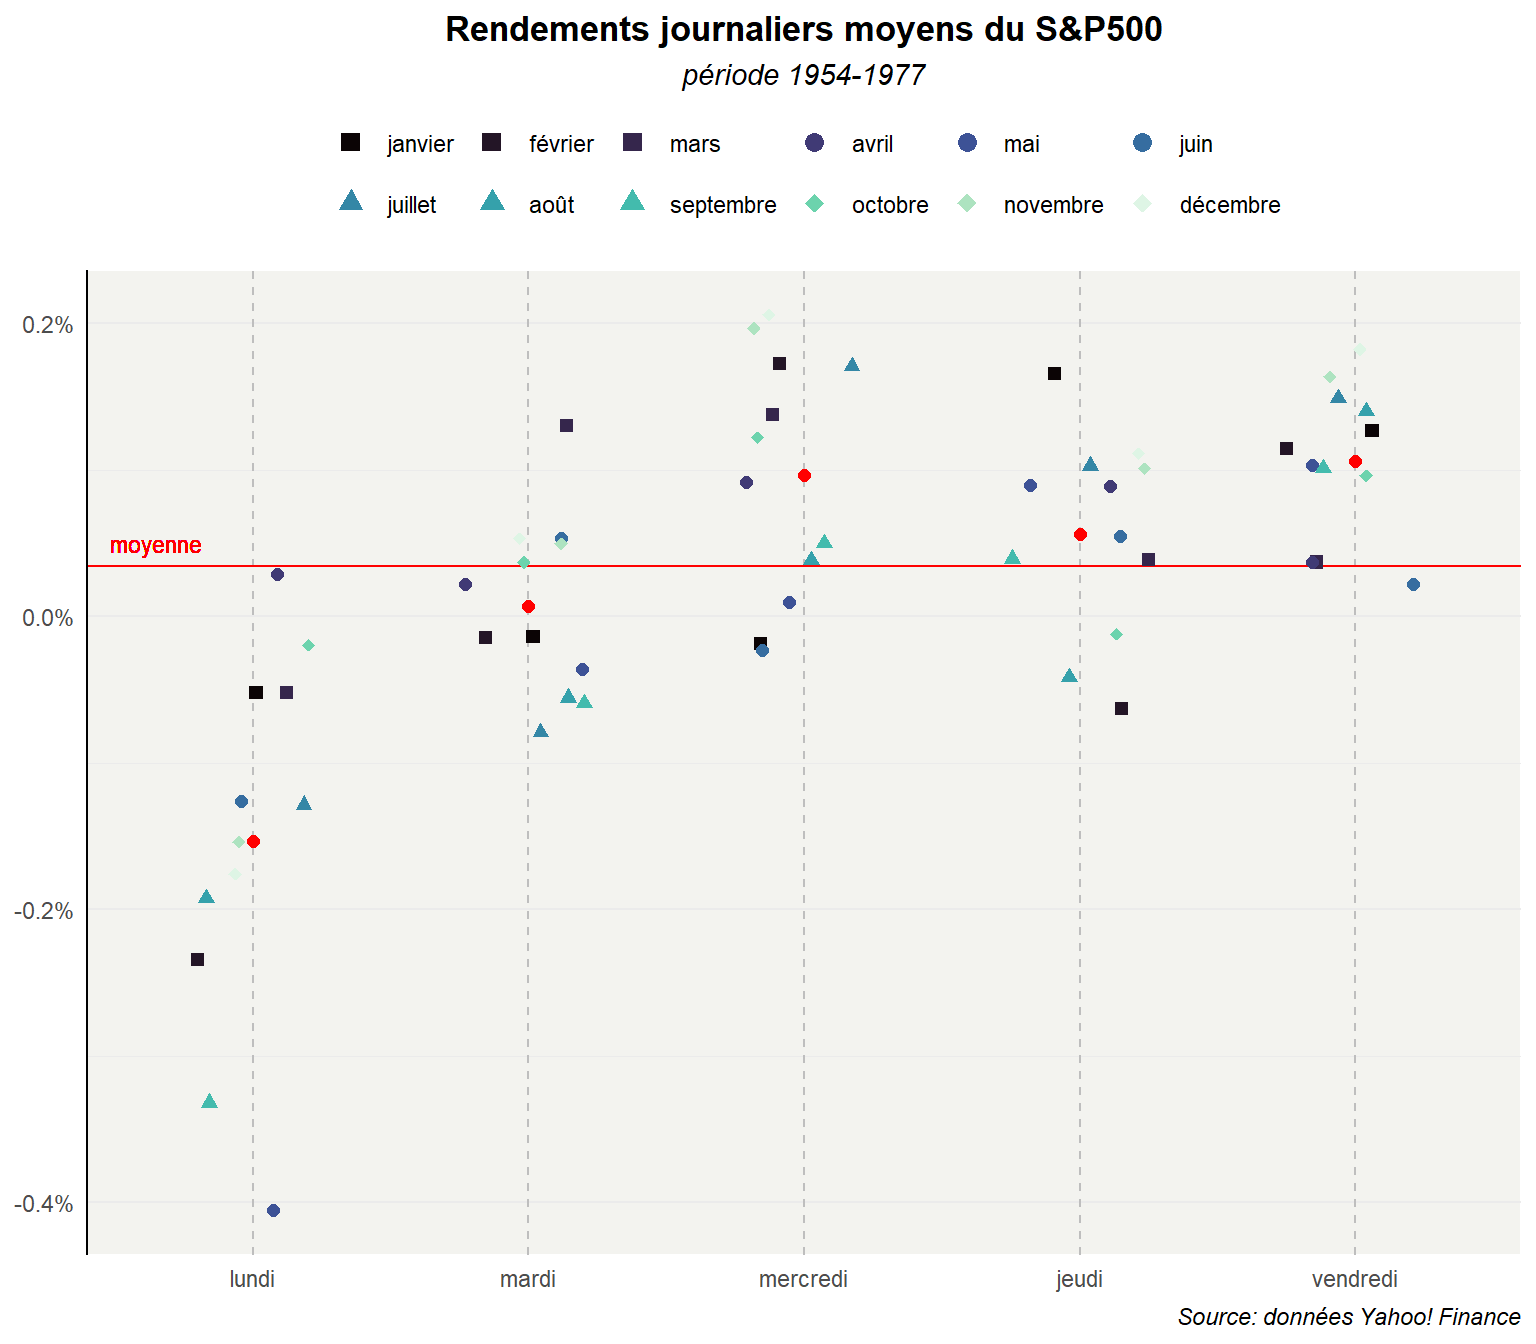
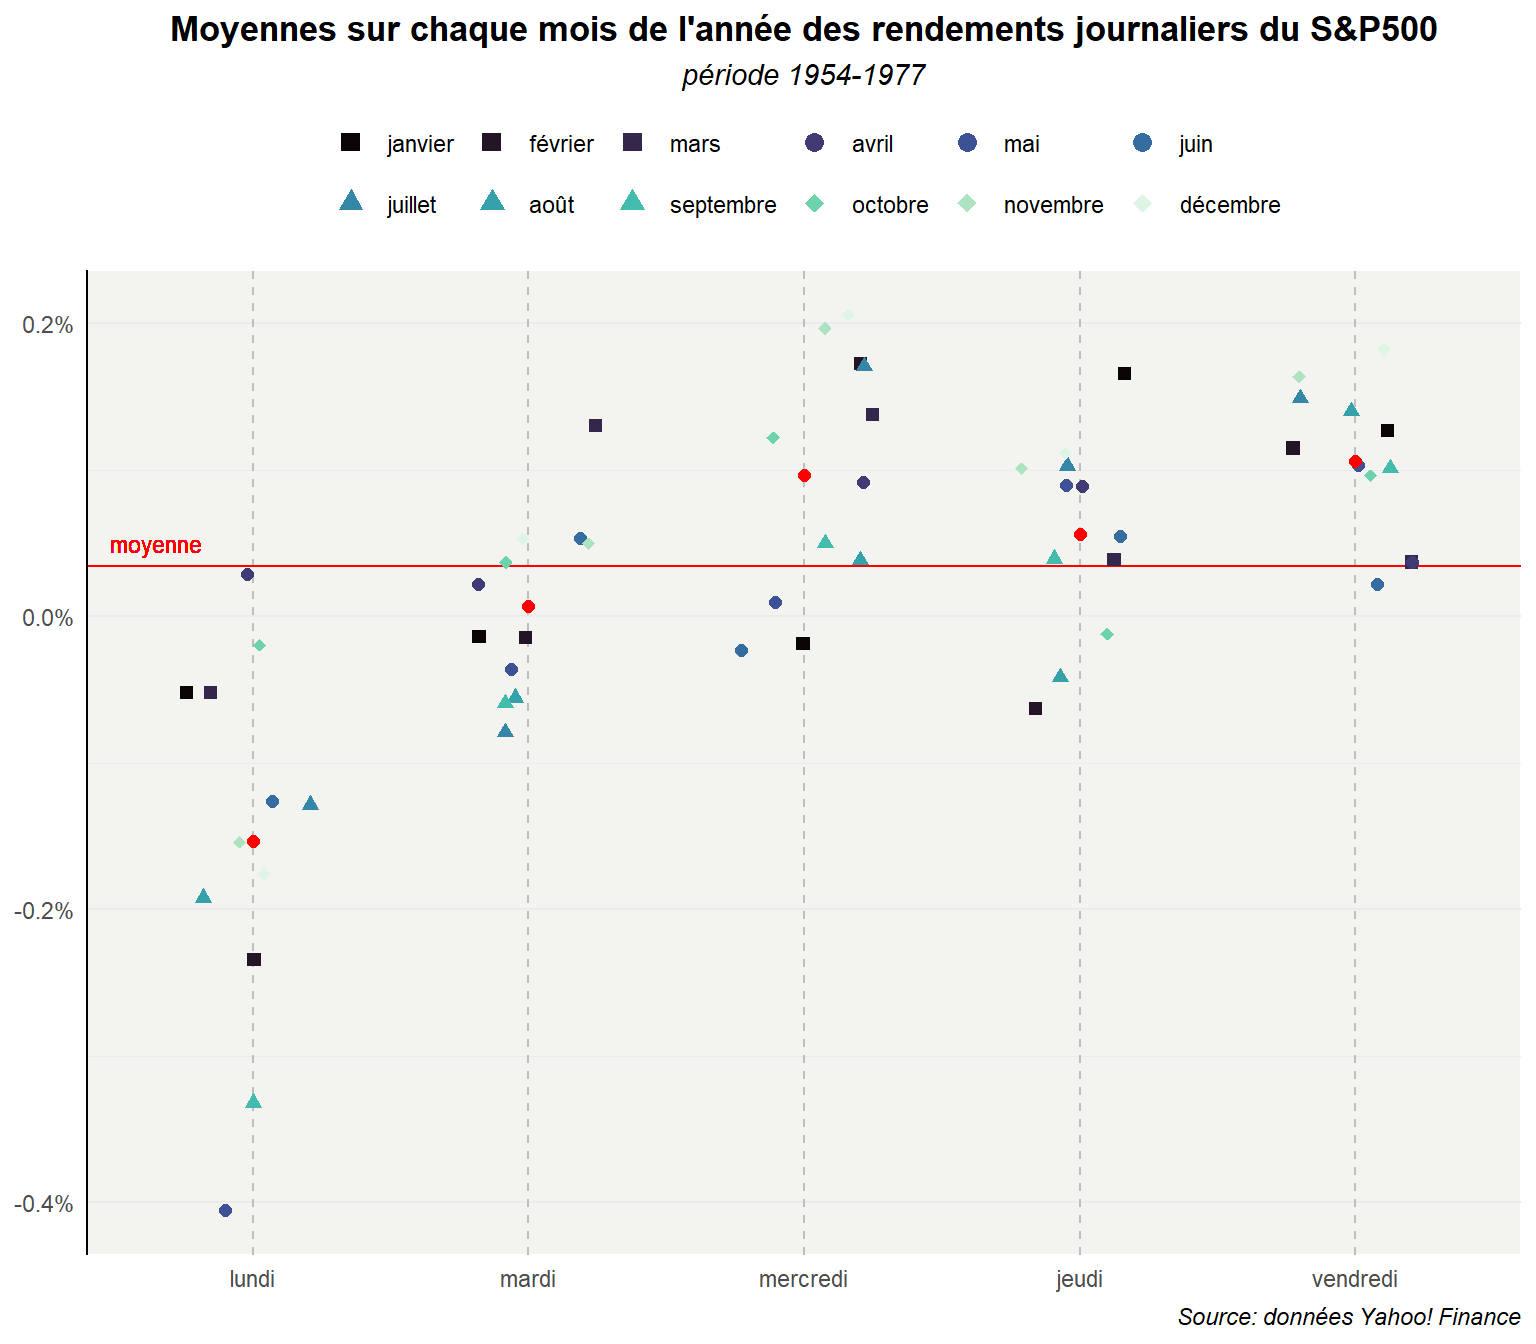
strip2

diff --git a/content/post/2024-04-23-les-strip-plot-gt24/index.html b/content/post/2024-04-23-les-strip-plot-gt24/index.html
@@ -54,7 +54,7 @@ glimpse(dat)</code></pre>
 <p>Maintenant que nos données sont prêtes, passons au graphe. La procédure est simple. Il s’agit d’utiliser le <strong>geom_point()</strong> en indiquant comme esthétique pour l’axe des abscisses day_lab et pour les ordonnées ret.</p>
 <pre class="r"><code>ggplot(data=dat,aes(x=day_lab,y=ret))+
   geom_point()</code></pre>
-<p><img src="{{< blogdown/postref >}}index_files/figure-html/unnamed-chunk-5-1.png" width="672" /></p>
+<p><img src="{{< blogdown/postref >}}index_files/figure-html/unnamed-chunk-5-1.png" width="768" /></p>
 <p>Cette représentation présente le défaut de superposer les points. Pour s’en convaincre, dénombrons les observations associées aux différents jours de la semaine.</p>
 <pre class="r"><code>dat %&gt;% group_by(day_lab) %&gt;% 
   count()</code></pre>
@@ -83,7 +83,7 @@ glimpse(dat)</code></pre>
          axis.title = element_blank(),
          axis.line.y.left = element_line(color=&quot;black&quot;),
    )</code></pre>
-<p><img src="{{< blogdown/postref >}}index_files/figure-html/unnamed-chunk-7-1.png" width="672" /></p>
+<p><img src="{{< blogdown/postref >}}index_files/figure-html/unnamed-chunk-7-1.png" width="768" /></p>
 <p>La transparence permet de mieux distinguer les différents degrés de regroupement d’observations. Les choses pourraient être plus signifiante si on ajoutait des repères. Plaçons sur le graphe des éléments marquant le rendement moyen sur la période globale et sur chaque jours. Cette moyenne est de :</p>
 <pre class="r"><code>mean(dat$ret)</code></pre>
 <pre><code>## [1] 0.0003414452</code></pre>
@@ -118,7 +118,7 @@ glimpse(dat)</code></pre>
          axis.title = element_blank(),
          axis.line.y.left = element_line(color=&quot;black&quot;),
    )</code></pre>
-<p><img src="{{< blogdown/postref >}}index_files/figure-html/unnamed-chunk-10-1.png" width="672" /></p>
+<p><img src="{{< blogdown/postref >}}index_files/figure-html/unnamed-chunk-10-1.png" width="768" /></p>
 <p>On voit clairement que les moyennes différents difficilement d’un jours à l’autre voir même de la moyenne sur l’ensemble de la période. Voyons rapidement ce qu’il en est sur la période étudiée par French (1980), autrement-dit 1953-1977.</p>
 <pre class="r"><code>ggplot(data=filter(dat,date&gt;date(&quot;1953/01/01&quot;)&amp;
                        date&lt;date(&quot;1977/12/31&quot;)),
@@ -141,7 +141,7 @@ glimpse(dat)</code></pre>
          axis.title = element_blank(),
          axis.line.y.left = element_line(color=&quot;black&quot;),
    )</code></pre>
-<p><img src="{{< blogdown/postref >}}index_files/figure-html/unnamed-chunk-11-1.png" width="672" /></p>
+<p><img src="{{< blogdown/postref >}}index_files/figure-html/unnamed-chunk-11-1.png" width="768" /></p>
 <p>Le contraste est plus marqué mais l’ensemble reste confus. Voyons ce qu’il en est si on winsorise (si on enlève les observations les plus extrêmes, les 1% de valeurs plus grande et plus petite).</p>
 <pre class="r"><code>ggplot(data=filter(dat,date&gt;date(&quot;1953/01/01&quot;)&amp;
                        date&lt;date(&quot;1977/12/31&quot;)&amp;
@@ -166,7 +166,7 @@ glimpse(dat)</code></pre>
          axis.title = element_blank(),
          axis.line.y.left = element_line(color=&quot;black&quot;),
    )</code></pre>
-<p><img src="{{< blogdown/postref >}}index_files/figure-html/unnamed-chunk-12-1.png" width="672" /></p>
+<p><img src="{{< blogdown/postref >}}index_files/figure-html/unnamed-chunk-12-1.png" width="768" /></p>
 <p>Cela améliore légèrement les choses mais au prix d’une perte d’informations.</p>
 <p>Revenons à nos données sur l’ensemble de la période. Essayons de réduire la superposition des points en les étalant plus sur l’axe horizontale sans les faire empiéter sur ceux des jours voisins. Pour cela, à la place d’utiliser le <strong>geom_point()</strong>, utilisons le <strong>geom_jitter()</strong>.</p>
 <pre class="r"><code>ggplot(data=dat,aes(x=day_lab,y=ret,group=day_lab))+
@@ -188,7 +188,7 @@ glimpse(dat)</code></pre>
          axis.title = element_blank(),
          axis.line.y.left = element_line(color=&quot;black&quot;),
    )</code></pre>
-<p><img src="{{< blogdown/postref >}}index_files/figure-html/unnamed-chunk-13-1.png" width="672" /></p>
+<p><img src="{{< blogdown/postref >}}index_files/figure-html/unnamed-chunk-13-1.png" width="768" /></p>
 <p>On voit plus nettement ici l’importance du nombre d’observations et des chevauchements de valeurs. L’ensemble reste néanmoins confus. On peut envisager d’ajouter des éléments d’information pour essayer de rendre les choses plus clairs comme par exemple une couleur différentes en fonction des mois où les observations sont réalisées.</p>
 <pre class="r"><code>ggplot(dat,
         aes(y=ret,x=day_lab,color=mois_lab))+
@@ -218,7 +218,7 @@ glimpse(dat)</code></pre>
          legend.key.size = unit(5, &quot;pt&quot;),
          legend.byrow = TRUE
    )</code></pre>
-<p><img src="{{< blogdown/postref >}}index_files/figure-html/unnamed-chunk-14-1.png" width="672" /></p>
+<p><img src="{{< blogdown/postref >}}index_files/figure-html/unnamed-chunk-14-1.png" width="768" /></p>
 <p>On voit encore mieux l’importance des superpositions, mais on est incapable de voir s’il y a des tendances différentes d’un mois à l’autre. Voyons ce qu’il en est, si on fait un graphe par mois à partir de la commande <strong>facet_warp()</strong>.</p>
 <pre class="r"><code>ggplot(dat,
         aes(y=ret,x=day_lab,color=mois_lab))+
@@ -314,7 +314,7 @@ dd</code></pre>
   geom_jitter(width = 0.25,size=2) +
   stat_summary(fun=mean, geom=&quot;point&quot;, shape=19,
                  size=2, color=&quot;red&quot;)+
-  labs(title=&quot;Rendements journaliers moyens du S&amp;P500&quot;,
+  labs(title=&quot;Moyennes sur chaque mois de l&#39;année des rendements journaliers du S&amp;P500&quot;,
        subtitle = &quot;1954-2003&quot;,
        caption=&quot;Source: données Yahoo! Finance&quot;,
        color=&quot;Mois&quot;)+
@@ -344,7 +344,7 @@ dd</code></pre>
   geom_jitter(width = 0.25,size=2) +
   stat_summary(fun=mean, geom=&quot;point&quot;, shape=19,
                  size=2, color=&quot;red&quot;)+
-  labs(title=&quot;Rendements journaliers moyens du S&amp;P500&quot;,
+  labs(title=&quot;Moyennes sur chaque mois de l&#39;année des rendements journaliers du S&amp;P500&quot;,
        subtitle = &quot;1954-2003&quot;,
        caption=&quot;Source: données Yahoo! Finance&quot;,
        color=&quot;Mois&quot;)+
@@ -368,13 +368,13 @@ dd</code></pre>
 <p><img src="{{< blogdown/postref >}}index_files/figure-html/unnamed-chunk-20-1.png" width="768" /></p>
 <p>Pour illustrer le second point, réalisons le graphe à partir des médianes.</p>
 <pre class="r"><code>ggplot(dd,aes(y=med_md,x=day_lab))+
-  geom_hline(yintercept=mean(dat$ret),color=&#39;red&#39;) +
+  geom_hline(yintercept=median(dat$ret),color=&#39;red&#39;) +
   annotate(geom=&quot;text&quot;,label=&quot;moyenne&quot;,x=&quot;lundi&quot;, y=0.0005,
             color=&quot;red&quot;,size=3)+
   geom_jitter(width = 0.25,size=2) +
   stat_summary(fun=mean, geom=&quot;point&quot;, shape=19,
                  size=2, color=&quot;red&quot;)+
-  labs(title=&quot;Rendements journaliers moyens du S&amp;P500&quot;,
+  labs(title=&quot;Médiane sur chaque mois de l&#39;année des rendements journaliers du S&amp;P500&quot;,
        subtitle = &quot;1954-2003&quot;,
        caption=&quot;Source: données Yahoo! Finance&quot;,
        color=&quot;Mois&quot;)+
@@ -428,7 +428,7 @@ dd_54_77</code></pre>
   geom_jitter(width = 0.25,size=2) +
   stat_summary(fun=mean, geom=&quot;point&quot;, shape=19,
                  size=2, color=&quot;red&quot;)+
-  labs(title=&quot;Rendements journaliers moyens du S&amp;P500&quot;,
+  labs(title=&quot;Moyennes sur chaque mois de l&#39;année des rendements journaliers du S&amp;P500&quot;,
        subtitle =&quot;période 1954-1977&quot;,
        caption=&quot;Source: données Yahoo! Finance&quot;,
        color=&quot;Mois&quot;)+
